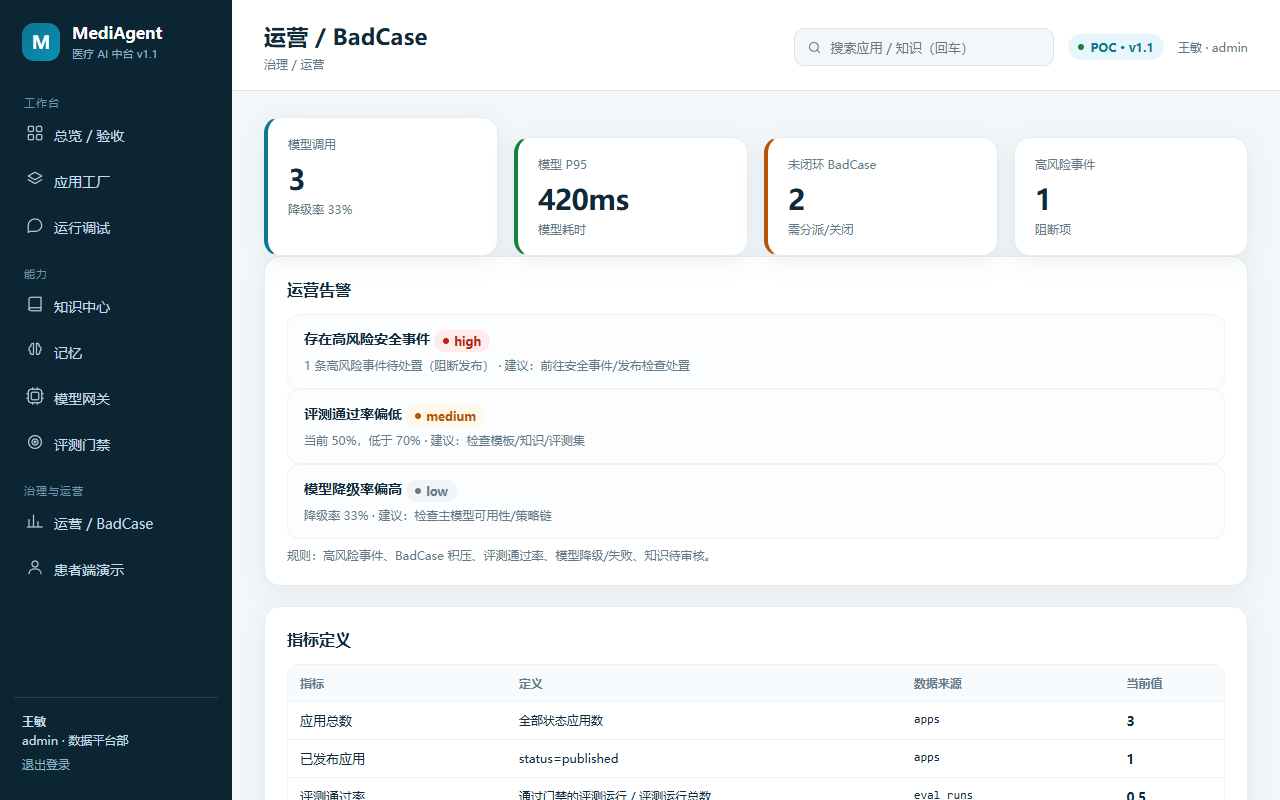
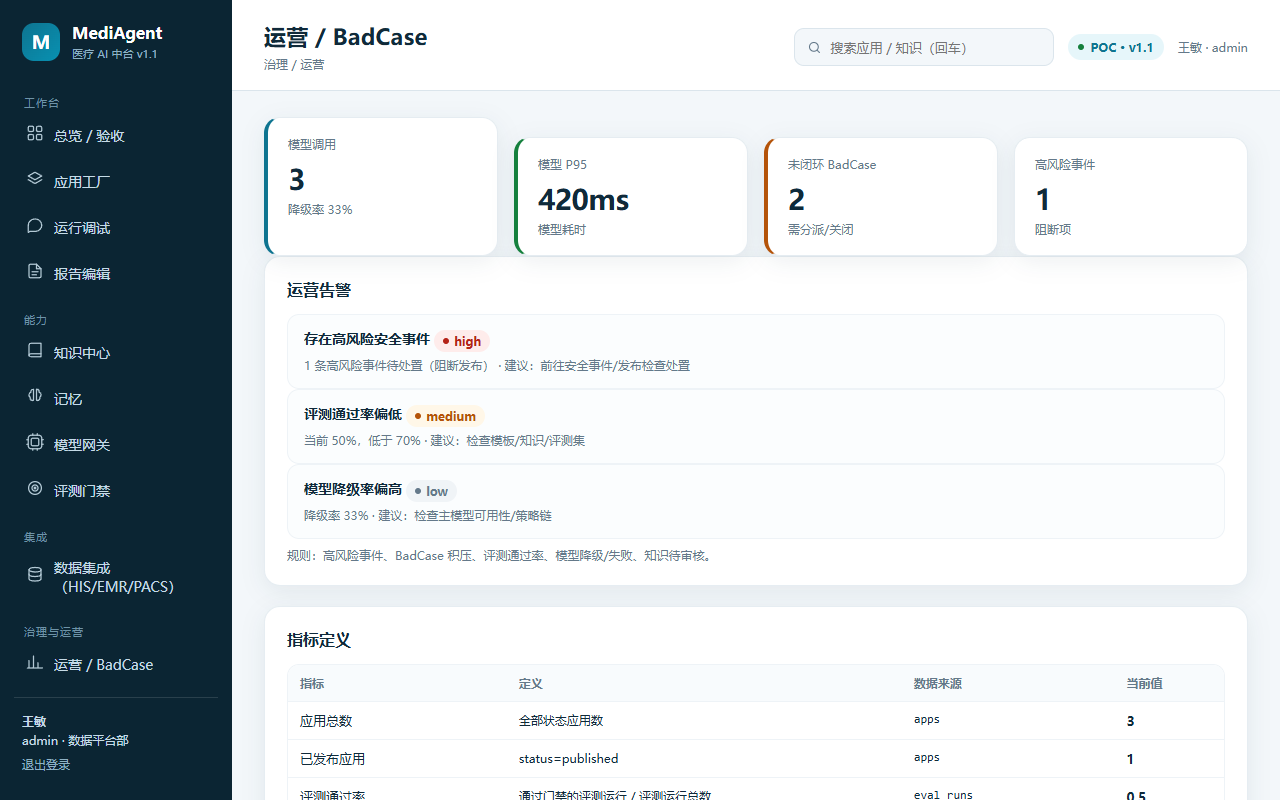
新增成本对账（按应用/模型汇总 tokens 与成本）；运营台与文档更新

diff --git a/web/app.js b/web/app.js
@@ -1561,10 +1561,10 @@ async function showEvalRun(id) {
 async function renderOps(view) {
   view.innerHTML = '<div class="card">加载中…</div>';
   try {
-    const [metrics, badcases, events, handoffs, runs, alerts] = await Promise.all([
+    const [metrics, badcases, events, handoffs, runs, alerts, costs] = await Promise.all([
       api('/api/ops/metrics'), api('/api/badcases'), api('/api/safety/events').catch(() => ({ items: [] })),
       api('/api/handoffs').catch(() => ({ items: [] })), api('/api/runs?limit=20').catch(() => ({ items: [] })),
-      api('/api/ops/alerts').catch(() => ({ items: [] })),
+      api('/api/ops/alerts').catch(() => ({ items: [] })), api('/api/ops/costs').catch(() => null),
     ]);
     const m = metrics.values;
     const canManage = has('badcase:manage');
@@ -1614,6 +1614,19 @@ async function renderOps(view) {
             <div class="list-title">任务 #${h.task_id || '—'} · ${esc(h.patient_ref)}</div>
             <div class="list-sub">${esc(h.reason)} · ${esc(h.created_at)}</div></div><div class="list-actions">${statusPill(h.status)}</div></div>`).join('') : '<div class="muted small">暂无（可在患者端演示中提交危险信号触发）</div>'}
         </div>
+      </div>
+      <div class="card">
+        <h3 class="section-title">成本对账（近 30 天）</h3>
+        ${costs ? `<div class="grid grid-3">
+          ${kpi('总成本', `¥${(costs.total.cost || 0).toFixed(4)}`, `${costs.total.runs} 次运行`, 'teal')}
+          ${kpi('总 tokens', costs.total.tokens, `${costs.total.model_calls} 次模型调用`, 'green')}
+          ${kpi('模型成本', `¥${(costs.total.model_cost || 0).toFixed(4)}`, '模型调用记录估算', 'amber')}
+        </div>
+        <div class="table-wrap" style="margin-top:14px"><table><thead><tr><th>应用</th><th>运行</th><th>tokens</th><th>成本</th></tr></thead><tbody>
+          ${costs.by_app.map((item) => `<tr><td>${esc(item.app_name || `#${item.app_id}`)}</td><td>${item.runs}</td>
+            <td>${item.tokens}</td><td>¥${(item.cost || 0).toFixed(4)}</td></tr>`).join('') || '<tr><td colspan="4" class="muted">暂无运行成本</td></tr>'}
+        </tbody></table></div>
+        <div class="small muted" style="margin-top:8px">${esc(costs.note)}</div>` : '<div class="muted small">暂无成本数据</div>'}
       </div>
       <div class="card">
         <h3 class="section-title">试跑运行记录（旧版运行记录能力吸收）</h3>

diff --git a/server/ops.py b/server/ops.py
@@ -2,6 +2,7 @@
 from __future__ import annotations
 
 import re
+from datetime import timedelta
 
 import common
 import db
@@ -118,6 +119,42 @@ def alerts(ctx):
     return 200, {"items": items, "generated_at": db.iso()}
 
 
+def costs(ctx):
+    common.require(ctx["user"], "metrics:read")
+    days = common.int_field(ctx["query"].get("days"), "days", default=30, minimum=1, maximum=365)
+    since = db.iso(db.now() - timedelta(days=days))
+    conn = ctx["conn"]
+    run_rows = conn.execute(
+        """SELECT r.app_id, a.name AS app_name, COUNT(*) AS runs,
+                  COALESCE(SUM(r.tokens),0) AS tokens,
+                  COALESCE(SUM(r.cost),0) AS cost
+           FROM runs r LEFT JOIN apps a ON a.id=r.app_id
+           WHERE r.created_at >= ? GROUP BY r.app_id, a.name ORDER BY cost DESC""",
+        (since,),
+    ).fetchall()
+    model_rows = conn.execute(
+        """SELECT model_key, COUNT(*) AS calls, COALESCE(SUM(tokens),0) AS tokens,
+                  COALESCE(SUM(cost),0) AS cost
+           FROM model_calls WHERE created_at >= ? GROUP BY model_key ORDER BY cost DESC""",
+        (since,),
+    ).fetchall()
+    app_cost = [{**dict(row), "cost": round(row["cost"], 6)} for row in run_rows]
+    model_cost = [{**dict(row), "cost": round(row["cost"], 6)} for row in model_rows]
+    total_cost = round(sum(item["cost"] for item in app_cost), 6)
+    total_tokens = sum(item["tokens"] for item in app_cost)
+    return 200, {
+        "days": days,
+        "since": since,
+        "total": {"cost": total_cost, "tokens": total_tokens,
+                  "runs": sum(item["runs"] for item in app_cost),
+                  "model_calls": sum(item["calls"] for item in model_cost),
+                  "model_cost": round(sum(item["cost"] for item in model_cost), 6)},
+        "by_app": app_cost,
+        "by_model": model_cost,
+        "note": "成本为 POC 估算（tokens × 单价），真实账单需院方/模型供应商对账口径",
+    }
+
+
 def list_badcases(ctx):
     common.require(ctx["user"], "metrics:read")
     query = ctx["query"]
@@ -202,6 +239,7 @@ def list_handoffs(ctx):
 ROUTES = [
     ("GET", re.compile(r"^/api/ops/metrics$"), metrics),
     ("GET", re.compile(r"^/api/ops/alerts$"), alerts),
+    ("GET", re.compile(r"^/api/ops/costs$"), costs),
     ("GET", re.compile(r"^/api/dashboard$"), dashboard),
     ("GET", re.compile(r"^/api/badcases$"), list_badcases),
     ("POST", re.compile(r"^/api/badcases$"), create_badcase),

diff --git a/tests/test_api.py b/tests/test_api.py
@@ -361,6 +361,11 @@ class MediAgentV11Test(unittest.TestCase):
         self.assertEqual(status, 200)
         self.assertIsInstance(alerts["items"], list)
         self.assertTrue(any(item["severity"] in ("high", "medium", "low") for item in alerts["items"]))
+        status, costs = request("GET", "/api/ops/costs?days=30", token=admin)
+        self.assertEqual(status, 200)
+        self.assertIn("total", costs)
+        self.assertIn("by_app", costs)
+        self.assertIsInstance(costs["total"]["cost"], (int, float))
 
     def test_14_knowledge_permissions(self):
         creator = self.token("u_creator")

diff --git a/README.md b/README.md
@@ -51,6 +51,7 @@ python tests/test_dify.py      # 4 项 Dify 适配测试（fake Dify）
 | 应用工厂 | 3 个模板（知识问答/病历质控/报告初稿）、创建/配置、试跑（输出+引用+免责+版本+降级） | FR-003 |
 | 运行调试（对话式） | 应用选择、对话气泡、引用/版本/免责、执行轨迹（模板→记忆→知识/规则→模型→安全）、👍/👎 反馈→BadCase | FR-003/008/010 |
 | 报告编辑（扩展） | 报告草稿生成（JSON）→ 医生编辑 → 签名 → 修改率/审计；支持缺失字段提示 | PRD v2.0 临床工作台 FR-40 |
+| 成本对账（扩展） | 近 30 天按应用/模型汇总 tokens 与成本，标注 POC 估算口径 | PRD v2.0 运营 FR-55 |
 | 数据集成（扩展） | HIS/EMR/PACS **mock**：患者上下文聚合、签名报告回写 HIS（幂等/外部 ID/审计）、集成调用记录 | PRD v2.0 §10；真实接口待院方 |
 | 患者小程序（扩展） | `miniprogram/`：微信登录→绑定→报告→随访→危险信号转人工；4 个页面 | v1.1 FR-012/013 + PRD 渠道 |
 | Dify 长尾适配（扩展） | Dify 应用登记/chat/workflow blocking 调用；未配置拒绝、上游失败不伪造、调用记录；不修改 Dify 源码 | PRD v2.0 应用工厂模式 B |
@@ -173,6 +174,7 @@ screenshots/         真实运行截图
 | POST | `/api/model-policies/{key}/test` | 网关测试（含降级） |
 | GET/POST | `/api/eval/datasets` / `/api/eval/run` | 评测集/执行评测 |
 | GET | `/api/ops/metrics` | 指标口径与当前值 |
+| GET | `/api/ops/costs?days=30` | 成本对账（按应用/模型） |
 | GET/POST | `/api/badcases`、`/api/badcases/{id}` | BadCase |
 | GET | `/api/audit`、`/api/audit/export` | 审计/导出 |
 | GET | `/api/patient/me`、`/api/patient/reports`、`/api/patient/followups` | 患者端 |

diff --git a/docs/prd-execution-status.md b/docs/prd-execution-status.md
@@ -14,7 +14,7 @@
 | 评测与门禁（§5/FR-31~37） | 🟡 POC | 评测集、指标口径、门禁、结果明细 | 医生盲评流程、金标准集治理、发布回归流水线 |
 | 临床工作台（§5/FR-38~45） | 🟡 POC | 知识问答/病历质控/报告初稿 + **报告编辑器（编辑/签名/修改率）**、医生试跑、反馈 | HIS/EMR 嵌入、影像、真实临床验证 |
 | 治理与审计（§5/FR-46~51） | ✅ POC | RBAC、双审批、审计、导出留痕、配置中心（部分） | 等保、WORM、密钥管理、租户 |
-| 运营与 BadCase（§5/FR-52~56） | 🟡 POC | 指标看板、**运营告警**、BadCase 分派/关闭、安全事件、运行记录 | 成本对账、内容运营、告警通知渠道 |
+| 运营与 BadCase（§5/FR-52~56） | 🟡 POC | 指标看板、**运营告警**、**成本对账（应用/模型）**、BadCase、安全事件、运行记录 | 内容运营、告警通知渠道、真实账单口径 |
 | 渠道与集成（§5/FR-57~61） | 🟡 POC | 患者小程序完整页面（登录/绑定/报告/随访）、微信登录、HIS/EMR/PACS mock 与报告回写 | 正式 AppID/备案/订阅消息、真实 HIS/PACS 接口 |
 | 院外开发者（§5/FR-62~66） | ⬜ 未做 | — | API Key/配额/计费/沙箱/文档站 |
 | 高级编排/MCP（§4 执行层） | ⬜ 未做 | 模型/知识/工具抽象已预留 | LangGraph 封装、MCP Gateway、沙箱 |

diff --git a/docs/api-contract.md b/docs/api-contract.md
@@ -77,6 +77,7 @@
 |---|---|---|---|
 | GET | /api/ops/metrics | metrics:read | 指标定义+当前值 |
 | GET | /api/ops/alerts | metrics:read | 运营告警（风险/积压/失败/降级） |
+| GET | /api/ops/costs?days=30 | metrics:read | 成本对账：总成本/tokens、按应用、按模型 |
 | GET | /api/dashboard | metrics:read | 指标+检查清单+最近应用/审计 |
 | GET | /api/badcases | metrics:read | 列表 |
 | POST | /api/badcases | badcase:manage | 登记 |
